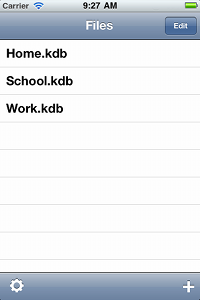
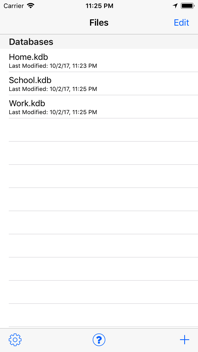
Update example images to iOS 11 on iPhone 7 Jet Black

diff --git a/style.css b/style.css
@@ -120,10 +120,10 @@ p {
 
 #iphone-screenshots {
   position: relative;
-  left: 15px;
-  top: 74px;
-  width: 200px;
-  height: 300px;
+  left: 16px;
+  top: 57px;
+  width: 198px;
+  height: 352px;
 }
 
 #iphone-screenshots img {
